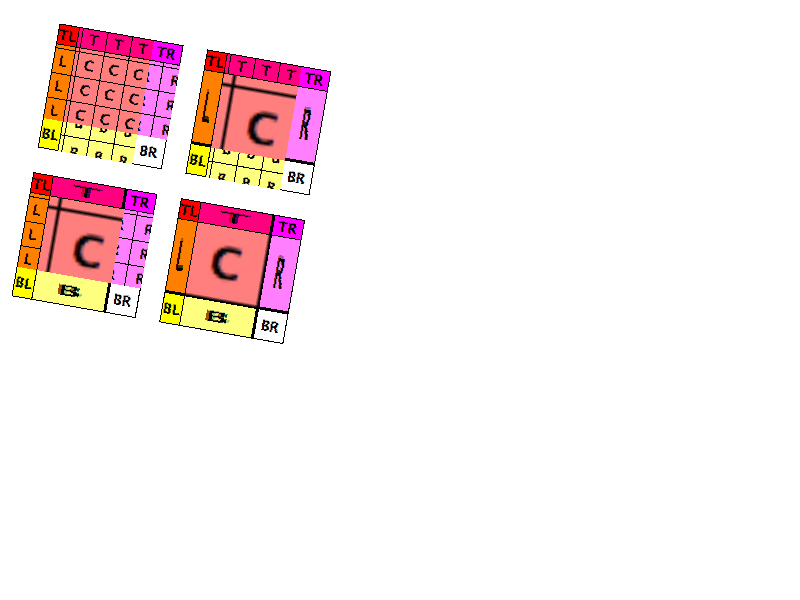
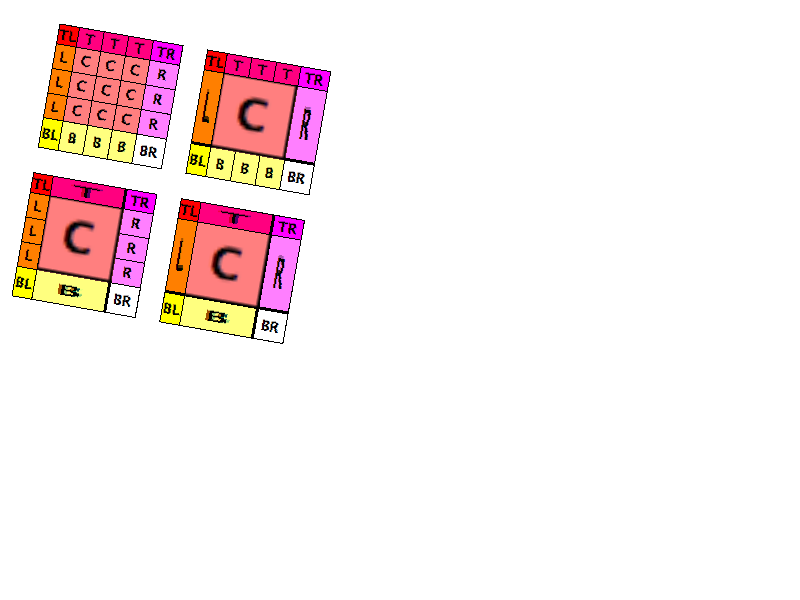
Fix incorrect pattern offsets, and rebaseline associated test results.
This now performs a similar origin translation as ImageCG.cpp, which seems to work, though it also seems to imply a relationship between the src and dest rects which I haven't found explicitly documented or enforced anywhere.

Review URL: http://codereview.chromium.org/13375

git-svn-id: http://src.chromium.org/svn/trunk/src@7107 4ff67af0-8c30-449e-8e8b-ad334ec8d88c

Former-commit-id: 318b5bda479f020b855b8f80f7f478aa215f977d

Changed region(s): [[0.0625, 0.06, 0.2188, 0.27], [0.25, 0.09, 0.375, 0.33], [0.0312, 0.33, 0.1875, 0.48]]

diff --git a/webkit/port/platform/graphics/skia/ImageSkia.cpp b/webkit/port/platform/graphics/skia/ImageSkia.cpp
@@ -33,6 +33,7 @@
 #include "BitmapImage.h"
 #include "BitmapImageSingleFrameSkia.h"
 #include "ChromiumBridge.h"
+#include "FloatConversion.h"
 #include "FloatRect.h"
 #include "GraphicsContext.h"
 #include "Logging.h"
@@ -371,8 +372,12 @@ void Image::drawPattern(GraphicsContext* context,
     // origin of the destination rect, which is what WebKit expects. Skia uses
     // the coordinate system origin as the base for the patter. If WebKit wants
     // a shifted image, it will shift it from there using the patternTransform.
-    matrix.postTranslate(SkFloatToScalar(phase.x()),
-                         SkFloatToScalar(phase.y()));
+    float adjustedX = phase.x() + floatSrcRect.x() *
+                      narrowPrecisionToFloat(patternTransform.a());
+    float adjustedY = phase.y() + floatSrcRect.y() *
+                      narrowPrecisionToFloat(patternTransform.d());
+    matrix.postTranslate(SkFloatToScalar(adjustedX),
+                         SkFloatToScalar(adjustedY));
     shader->setLocalMatrix(matrix);
 
     SkPaint paint;
